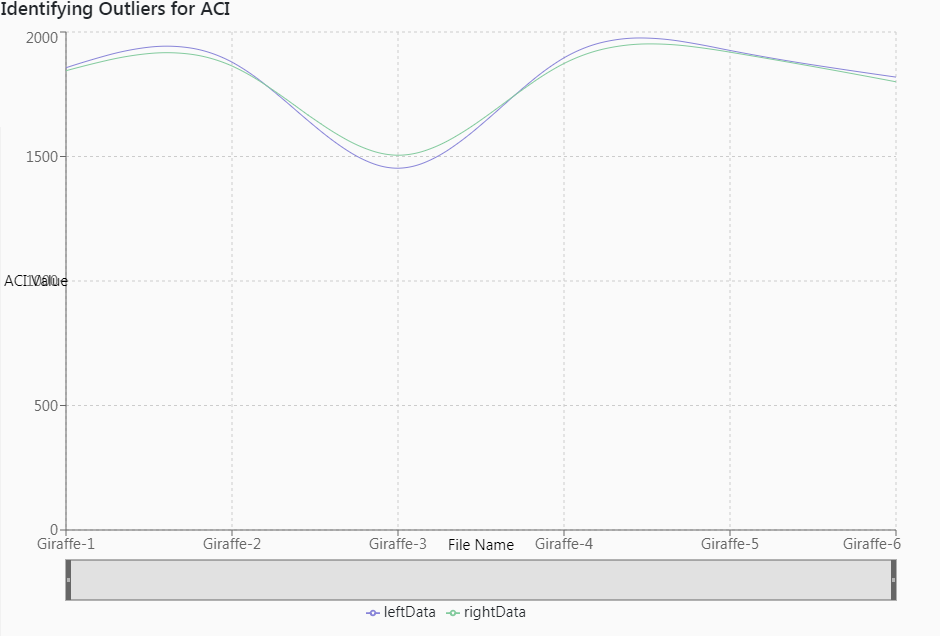
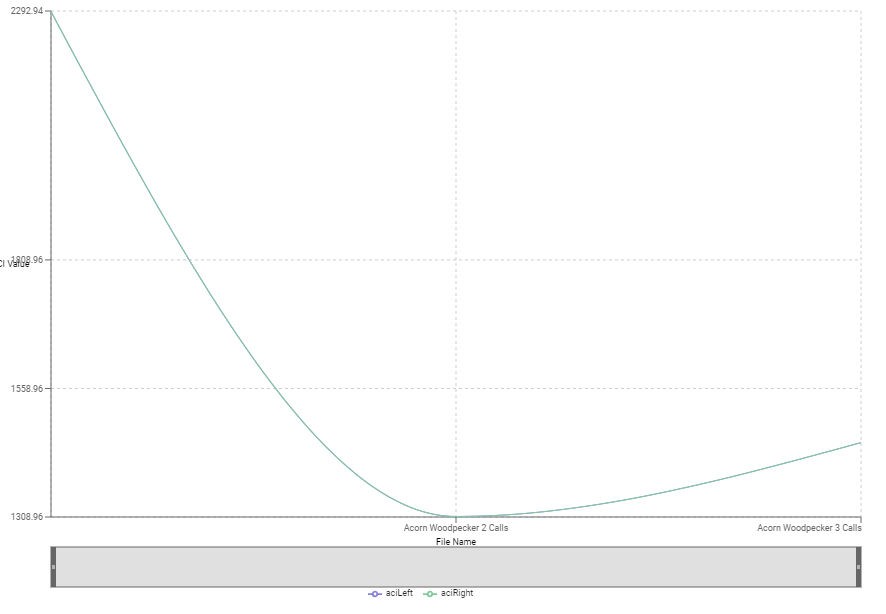
Docs hotfix

diff --git a/docs/design document/tech/visualizations/outliers.tex b/docs/design document/tech/visualizations/outliers.tex
@@ -2,6 +2,5 @@
 An important part of the analysis of the sound files is to identify when outliers arise. Our sponsor has expressed that being able to see when an outlier occurs and being able to listen to what caused it is important in drawing conclusions and finding interesting bits of information from a data set. Thus, two infographics seem reasonable, those being timelines and line charts. Both do relatively similar jobs, however a timeline is made specifically for information over time. The only upside to a line graph would be that each point on the graph would represent a sound file, and the results of its analysis. Being able to represent an output as a small dot on a chart and allowing the user to select or hover over that point to see which file caused the outlier is certainly desirable from a usability perspective. Additionally, it would be helpful for the user to be able to select a specific sound file along with a specific time in that file and be able to listen to it on command. This feature is also included in Mangrove.\par
 \begin{center}
   \includegraphics[width=\textwidth]{OutlierACIgraph1} \\[12pt]
-  \includegraphics[width=\textwidth]{OutlierBAgraph1} \\[12pt]
 \end{center}
-The graphs above are for a data set comprised of files that the ACI and Bioacoustic Index were run on. The X axis displays the file name, while the Y axis labels the respective index value. Notice that file Giraffe 3 is much lower than the rest in the first graphic, and the file Site2-1 and Site2-5 also stand out in the second. Using these visuals, a researcher can quickly identify which files in their sets contain possibly interesting sounds to listen to in order to make further conclusions about their data. Further, the researcher can actually click on the data point itself for any given file and an audio player will display and let the user actually listen to the file in the client.
+The graph above is for a data set comprised of files that the ACI index has been run on. The X axis displays the file name, while the Y axis labels the respective index value. Notice that file Acorn Woodpecker 2 is much lower than the rest. Using these visuals, a researcher can quickly identify which files in their sets contain possibly interesting sounds to listen to in order to make further conclusions about their data. Further, the researcher can actually click on the data point itself for any given file and an audio player will display and let the user actually listen to the file in the client.
